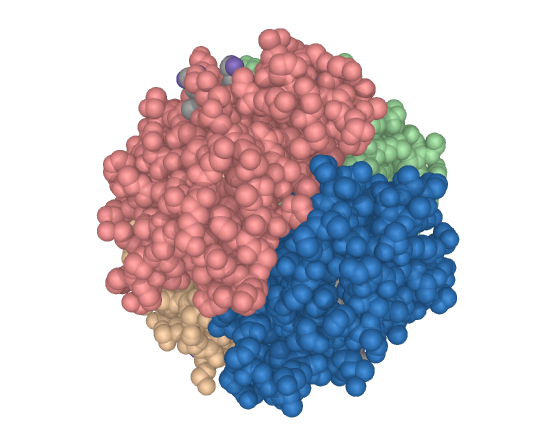
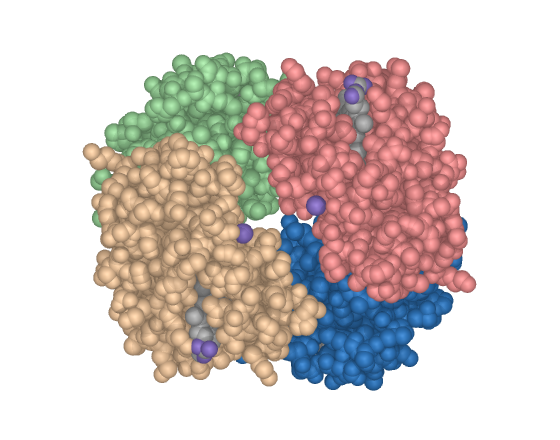
Regenerate gallery orthoscopically in side, top and corner views with per-system margins

diff --git a/tests/make_gallery.py b/tests/make_gallery.py
@@ -35,27 +35,44 @@ from pymol_molviz import membrane, protein            # noqa: E402
 SAIDA = os.path.join(RAIZ, "docs", "img")
 LARGURA, ALTURA, DPI = 560, 440, 90
 
+# Folga em angstrom em volta do que se enquadra, por sistema. Sao diferentes
+# porque os dois objetos tem forma diferente: a bicamada e larga e fina e
+# preenche a largura do quadro, entao pede folga maior para nao encostar na
+# borda; a proteina e globular e com a mesma folga sairia pequena demais para
+# se ver detalhe.
+MARGEM_MEMB = 6
+MARGEM_PROT = 3
+
 # (rotulo, giros aplicados sobre a vista de referencia)
 #
-# Na membrana a referencia NAO e o enquadramento do preset. 'orient' alinha o
-# maior eixo do objeto com a horizontal da tela, e uma bicamada e plana em xy:
-# o resultado e a vista de topo, com a rotulada 'lado' mostrando exatamente o
-# contrario do nome. A referencia da membrana e a vista canonica do 'reset',
-# onde z aponta para o observador, e de la os giros sao previsiveis.
+# Os tres angulos sao os mesmos nos dois sistemas: de lado, de cima e a quina.
+#
+# A referencia da MEMBRANA e a vista canonica do 'reset', onde z aponta para o
+# observador e a bicamada aparece de topo. Nao da para usar o enquadramento do
+# preset: '_finish' chama 'orient', que alinha o maior eixo do objeto com a
+# horizontal da tela, e numa bicamada, que e plana em xy, isso devolve a vista
+# de topo com o rotulo 'lado'.
+#
+# A referencia da PROTEINA e o 'orient' que o preset deixou, que e a vista mais
+# informativa de uma molecula globular.
 VISTAS_MEMB = (("lado", [("x", 90)]),
-               ("topo", []),
-               ("obliqua", [("x", 60), ("y", 20)]))
-VISTAS_PROT = (("frente", []),
-               ("lado", [("y", 90)]),
-               ("verso", [("y", 180)]))
+               ("cima", []),
+               ("quina", [("x", 55), ("y", 35)]))
+VISTAS_PROT = (("lado", []),
+               ("cima", [("x", 90)]),
+               ("quina", [("x", 45), ("y", 45)]))
 
 
-def render(modulo, prefixo, indices, vistas, arquivo, obj_zoom,
+def render(modulo, prefixo, indices, vistas, arquivo, obj_zoom, margem,
            reset_camera=False):
     cmd.delete("all")
     cmd.load(arquivo, "sistema")
     modulo.split()
     cmd.set("ray_opaque_background", 1)
+    # Projecao ortografica: em perspectiva um folheto plano parece curvo, e a
+    # comparacao entre as tres vistas deixa de valer porque o que esta mais
+    # perto da camera aparece maior.
+    cmd.set("orthoscopic", 1)
 
     for i in indices:
         fn = getattr(modulo, "preset%d" % i, None)
@@ -69,6 +86,8 @@ def render(modulo, prefixo, indices, vistas, arquivo, obj_zoom,
             continue
 
         fn()
+        # O preset pode religar a perspectiva pelo material.
+        cmd.set("orthoscopic", 1)
         if reset_camera:
             cmd.reset()
         # A vista de referencia e uma so: cada giro parte dela, e nao do giro
@@ -79,7 +98,10 @@ def render(modulo, prefixo, indices, vistas, arquivo, obj_zoom,
             for eixo, ang in giros:
                 cmd.turn(eixo, ang)
             if obj_zoom and cmd.count_atoms(obj_zoom):
-                cmd.zoom(obj_zoom, 2)
+                # complete=1 e o que garante que a geometria INTEIRA caiba:
+                # sem ele o zoom enquadra pelo centro e por um raio aproximado,
+                # e uma bicamada, que e larga e fina, sai cortada nas bordas.
+                cmd.zoom(obj_zoom, margem, complete=1)
             cmd.png(destino, LARGURA, ALTURA, dpi=DPI, ray=1)
             print("OK     %s" % os.path.basename(destino))
 
@@ -90,9 +112,9 @@ if not os.path.isdir(SAIDA):
 pymol_molviz.load(auto=False)
 
 render(protein, "prot", range(1, 11), VISTAS_PROT,
-       os.path.join(RAIZ, "prot", "4hhb.pdb"), "obj_prot")
+       os.path.join(RAIZ, "prot", "4hhb.pdb"), "obj_prot", MARGEM_PROT)
 render(membrane, "memb", range(1, 11), VISTAS_MEMB,
        os.path.join(RAIZ, "memb", "bilbo_preview.pdb"), "obj_lipid",
-       reset_camera=True)
+       MARGEM_MEMB, reset_camera=True)
 
 print("GALERIA COMPLETA")

diff --git a/docs/gallery.md b/docs/gallery.md
@@ -21,9 +21,9 @@ Domain topology. Cartoon by secondary structure: helix blue, sheet red, loop whi
 preset_prot1
 ```
 
-| front | 90 deg | 180 deg |
+| side | top | corner |
 |---|---|---|
-| ![preset_prot1 frente](img/prot1_frente.png) | ![preset_prot1 lado](img/prot1_lado.png) | ![preset_prot1 verso](img/prot1_verso.png) |
+| ![preset_prot1 lado](img/prot1_lado.png) | ![preset_prot1 cima](img/prot1_cima.png) | ![preset_prot1 quina](img/prot1_quina.png) |
 
 ### `preset_prot2`
 
@@ -33,9 +33,9 @@ Binding site. Same cartoon under a translucent surface, so a ligand stays visibl
 preset_prot2
 ```
 
-| front | 90 deg | 180 deg |
+| side | top | corner |
 |---|---|---|
-| ![preset_prot2 frente](img/prot2_frente.png) | ![preset_prot2 lado](img/prot2_lado.png) | ![preset_prot2 verso](img/prot2_verso.png) |
+| ![preset_prot2 lado](img/prot2_lado.png) | ![preset_prot2 cima](img/prot2_cima.png) | ![preset_prot2 quina](img/prot2_quina.png) |
 
 ### `preset_prot3`
 
@@ -45,9 +45,9 @@ Interaction face. Solid surface with a Kyte-Doolittle gradient. Writes to the B 
 preset_prot3
 ```
 
-| front | 90 deg | 180 deg |
+| side | top | corner |
 |---|---|---|
-| ![preset_prot3 frente](img/prot3_frente.png) | ![preset_prot3 lado](img/prot3_lado.png) | ![preset_prot3 verso](img/prot3_verso.png) |
+| ![preset_prot3 lado](img/prot3_lado.png) | ![preset_prot3 cima](img/prot3_cima.png) | ![preset_prot3 quina](img/prot3_quina.png) |
 
 ### `preset_prot4`
 
@@ -57,9 +57,9 @@ Complex architecture. Spacefill at van der Waals radius, one colour per chain.
 preset_prot4
 ```
 
-| front | 90 deg | 180 deg |
+| side | top | corner |
 |---|---|---|
-| ![preset_prot4 frente](img/prot4_frente.png) | ![preset_prot4 lado](img/prot4_lado.png) | ![preset_prot4 verso](img/prot4_verso.png) |
+| ![preset_prot4 lado](img/prot4_lado.png) | ![preset_prot4 cima](img/prot4_cima.png) | ![preset_prot4 quina](img/prot4_quina.png) |
 
 ### `preset_prot5`
 
@@ -69,9 +69,9 @@ Flexibility. Putty: thickness encodes the B-factor. Inverts on predicted models 
 preset_prot5
 ```
 
-| front | 90 deg | 180 deg |
+| side | top | corner |
 |---|---|---|
-| ![preset_prot5 frente](img/prot5_frente.png) | ![preset_prot5 lado](img/prot5_lado.png) | ![preset_prot5 verso](img/prot5_verso.png) |
+| ![preset_prot5 lado](img/prot5_lado.png) | ![preset_prot5 cima](img/prot5_cima.png) | _(pending)_ |
 
 ### `preset_prot6`
 
@@ -81,9 +81,9 @@ Peptides. All-atom licorice coloured by formal charge. Above 60 residues it warn
 preset_prot6
 ```
 
-| front | 90 deg | 180 deg |
+| side | top | corner |
 |---|---|---|
-| ![preset_prot6 frente](img/prot6_frente.png) | ![preset_prot6 lado](img/prot6_lado.png) | ![preset_prot6 verso](img/prot6_verso.png) |
+| _(pending)_ | _(pending)_ | _(pending)_ |
 
 ### `preset_prot7`
 
@@ -93,9 +93,9 @@ MD box. Cartoon plus water within 4 A and ions within 6 A; bulk solvent discarde
 preset_prot7
 ```
 
-| front | 90 deg | 180 deg |
+| side | top | corner |
 |---|---|---|
-| ![preset_prot7 frente](img/prot7_frente.png) | ![preset_prot7 lado](img/prot7_lado.png) | ![preset_prot7 verso](img/prot7_verso.png) |
+| _(pending)_ | _(pending)_ | _(pending)_ |
 
 ### `preset_prot8`
 
@@ -105,9 +105,9 @@ The simulated system as a whole. Surface inside the solvent volume.
 preset_prot8
 ```
 
-| front | 90 deg | 180 deg |
+| side | top | corner |
 |---|---|---|
-| ![preset_prot8 frente](img/prot8_frente.png) | ![preset_prot8 lado](img/prot8_lado.png) | ![preset_prot8 verso](img/prot8_verso.png) |
+| _(pending)_ | _(pending)_ | _(pending)_ |
 
 ### `preset_prot9`
 
@@ -117,9 +117,9 @@ Box dimensions. Surface, solvent field and the twelve box edges, measured into t
 preset_prot9
 ```
 
-| front | 90 deg | 180 deg |
+| side | top | corner |
 |---|---|---|
-| ![preset_prot9 frente](img/prot9_frente.png) | ![preset_prot9 lado](img/prot9_lado.png) | ![preset_prot9 verso](img/prot9_verso.png) |
+| _(pending)_ | _(pending)_ | _(pending)_ |
 
 ### `preset_prot10`
 
@@ -129,9 +129,9 @@ Interface. Translucent cartoon with the contact side chains in opaque licorice, 
 preset_prot10
 ```
 
-| front | 90 deg | 180 deg |
+| side | top | corner |
 |---|---|---|
-| ![preset_prot10 frente](img/prot10_frente.png) | ![preset_prot10 lado](img/prot10_lado.png) | ![preset_prot10 verso](img/prot10_verso.png) |
+| _(pending)_ | _(pending)_ | _(pending)_ |
 
 ## Membrane presets
 
@@ -150,9 +150,9 @@ General reading. Spheres at scale 0.55, one colour per chemical moiety, water as
 preset_memb1
 ```
 
-| side | top | oblique |
+| side | top | corner |
 |---|---|---|
-| ![preset_memb1 lado](img/memb1_lado.png) | ![preset_memb1 topo](img/memb1_topo.png) | ![preset_memb1 obliqua](img/memb1_obliqua.png) |
+| _(pending)_ | _(pending)_ | _(pending)_ |
 
 ### `preset_memb2`
 
@@ -162,9 +162,9 @@ Occupied volume. Spacefill at van der Waals radius, coloured by leaflet.
 preset_memb2
 ```
 
-| side | top | oblique |
+| side | top | corner |
 |---|---|---|
-| ![preset_memb2 lado](img/memb2_lado.png) | ![preset_memb2 topo](img/memb2_topo.png) | ![preset_memb2 obliqua](img/memb2_obliqua.png) |
+| _(pending)_ | _(pending)_ | _(pending)_ |
 
 ### `preset_memb3`
 
@@ -174,9 +174,9 @@ Ion to polar head. Licorice with heads as spheres; ions get an opaque core and a
 preset_memb3
 ```
 
-| side | top | oblique |
+| side | top | corner |
 |---|---|---|
-| ![preset_memb3 lado](img/memb3_lado.png) | ![preset_memb3 topo](img/memb3_topo.png) | ![preset_memb3 obliqua](img/memb3_obliqua.png) |
+| _(pending)_ | _(pending)_ | _(pending)_ |
 
 ### `preset_memb4`
 
@@ -186,9 +186,9 @@ Inserted peptide. Translucent surface over thin sticks, water off so it does not
 preset_memb4
 ```
 
-| side | top | oblique |
+| side | top | corner |
 |---|---|---|
-| ![preset_memb4 lado](img/memb4_lado.png) | ![preset_memb4 topo](img/memb4_topo.png) | ![preset_memb4 obliqua](img/memb4_obliqua.png) |
+| _(pending)_ | _(pending)_ | _(pending)_ |
 
 ### `preset_memb5`
 
@@ -198,9 +198,9 @@ Illustration and large systems. Tails as a single gaussian isosurface, heads as 
 preset_memb5
 ```
 
-| side | top | oblique |
+| side | top | corner |
 |---|---|---|
-| ![preset_memb5 lado](img/memb5_lado.png) | ![preset_memb5 topo](img/memb5_topo.png) | ![preset_memb5 obliqua](img/memb5_obliqua.png) |
+| _(pending)_ | _(pending)_ | _(pending)_ |
 
 ### `preset_memb6`
 
@@ -210,9 +210,9 @@ Navigation, not a figure. Lines and dots, ambient occlusion off.
 preset_memb6
 ```
 
-| side | top | oblique |
+| side | top | corner |
 |---|---|---|
-| ![preset_memb6 lado](img/memb6_lado.png) | ![preset_memb6 topo](img/memb6_topo.png) | ![preset_memb6 obliqua](img/memb6_obliqua.png) |
+| _(pending)_ | _(pending)_ | _(pending)_ |
 
 ### `preset_memb7`
 
@@ -222,9 +222,9 @@ Cross-section. A central slab in spacefill, with the camera along the cut axis. 
 preset_memb7
 ```
 
-| side | top | oblique |
+| side | top | corner |
 |---|---|---|
-| ![preset_memb7 lado](img/memb7_lado.png) | ![preset_memb7 topo](img/memb7_topo.png) | ![preset_memb7 obliqua](img/memb7_obliqua.png) |
+| _(pending)_ | _(pending)_ | _(pending)_ |
 
 ### `preset_memb8`
 
@@ -234,9 +234,9 @@ Annular lipids. The ones touching the protein in licorice, the rest ghosted. Nee
 preset_memb8
 ```
 
-| side | top | oblique |
+| side | top | corner |
 |---|---|---|
-| ![preset_memb8 lado](img/memb8_lado.png) | ![preset_memb8 topo](img/memb8_topo.png) | ![preset_memb8 obliqua](img/memb8_obliqua.png) |
+| _(pending)_ | _(pending)_ | _(pending)_ |
 
 ### `preset_memb9`
 
@@ -246,7 +246,7 @@ Leaflet asymmetry and thickness. One translucent surface per leaflet, phosphates
 preset_memb9
 ```
 
-| side | top | oblique |
+| side | top | corner |
 |---|---|---|
 | _(pending)_ | _(pending)_ | _(pending)_ |
 
@@ -258,7 +258,7 @@ Print and one-column reduction. Dark tails as isosurface, light heads as spheres
 preset_memb10
 ```
 
-| side | top | oblique |
+| side | top | corner |
 |---|---|---|
 | _(pending)_ | _(pending)_ | _(pending)_ |
 
